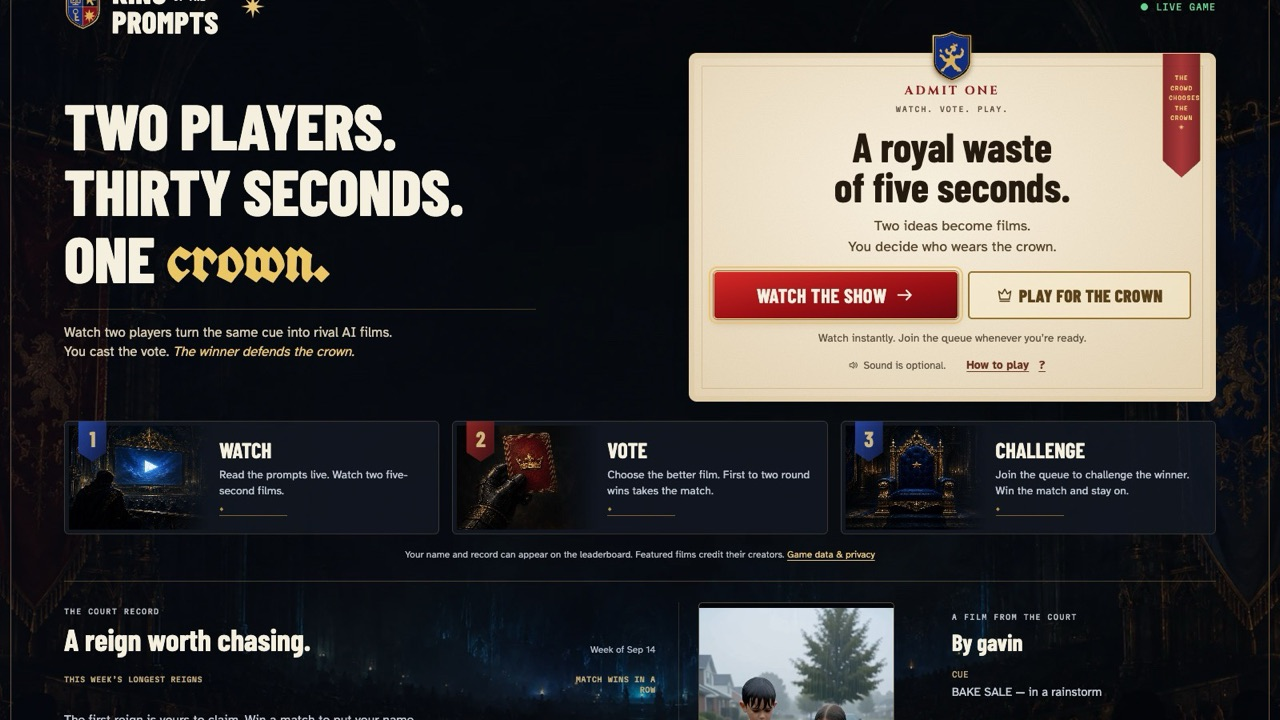
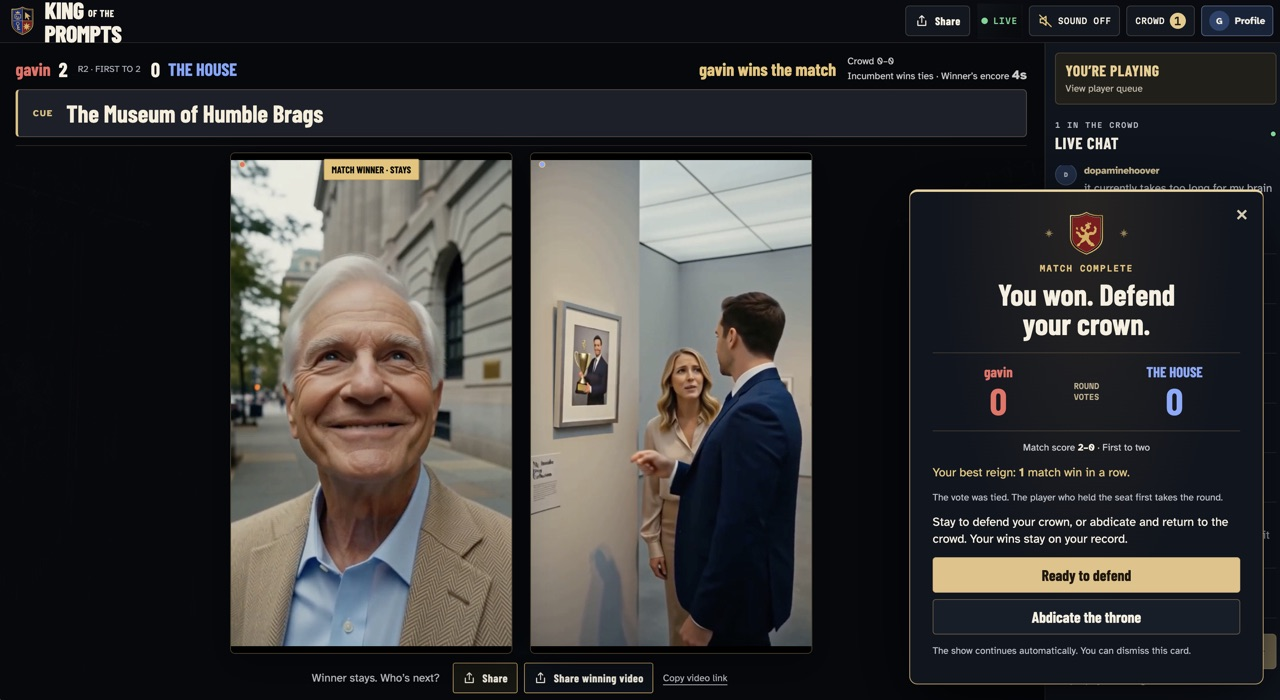
King of the Prompts: homepage section above Fig & Moss, in-game screenshot
Claude-Session: https://claude.ai/code/session_01EMiJ3NT6J8esxhbtXHG2E9

diff --git a/src/components/KingOfThePrompts.jsx b/src/components/KingOfThePrompts.jsx
@@ -1,0 +1,79 @@
+import { motion } from 'framer-motion';
+import './KingOfThePrompts.css';
+
+export default function KingOfThePrompts() {
+  return (
+    <section id="kingoftheprompts" className="kotp section">
+      <div className="kotp-container">
+        <motion.div
+          className="kotp-content"
+          initial={{ opacity: 0, x: -30 }}
+          whileInView={{ opacity: 1, x: 0 }}
+          viewport={{ once: true }}
+          transition={{ duration: 0.6 }}
+        >
+          <div className="kotp-logo-row">
+            <a href="https://kingoftheprompts.com" target="_blank" rel="noopener noreferrer" className="kotp-logo-link">
+              <img
+                src="/kotp-icon.png"
+                alt=""
+                className="kotp-logo"
+              />
+            </a>
+            <h2 className="kotp-name">
+              <a href="https://kingoftheprompts.com" target="_blank" rel="noopener noreferrer">King of the Prompts</a>
+            </h2>
+          </div>
+
+          <p className="kotp-tagline">Two players. Thirty seconds. One crown.</p>
+
+          <p className="kotp-description">
+            <strong>King of the Prompts</strong> is a live game show for the prompt era.
+            Two contestants get the same cue and thirty seconds to write a video prompt
+            while the crowd watches every keystroke land. AI turns both prompts into
+            five-second films on the spot. Then everybody votes.
+          </p>
+
+          <p className="kotp-description">
+            First to two takes the match, and the winner stays on to defend the crown
+            against whoever is next in the queue. When nobody is waiting, you play the
+            House, an AI opponent that has been studying the rounds the crowd liked.
+          </p>
+
+          <p className="kotp-backing">
+            It is live right now at <a href="https://kingoftheprompts.com" target="_blank" rel="noopener noreferrer">kingoftheprompts.com</a>,
+            with <strong>a 500-cue deck</strong>, a leaderboard of the longest reigns,
+            and fake commercials between matches. I designed and built it solo with AI
+            coding agents, spec to live domain in five days.
+          </p>
+        </motion.div>
+
+        <motion.div
+          className="kotp-visual"
+          initial={{ opacity: 0, x: 30 }}
+          whileInView={{ opacity: 1, x: 0 }}
+          viewport={{ once: true }}
+          transition={{ duration: 0.6, delay: 0.2 }}
+        >
+          <h3 className="kotp-visual-title">Match Complete</h3>
+          <a href="https://kingoftheprompts.com" target="_blank" rel="noopener noreferrer" className="kotp-screenshot-link">
+            <img
+              src="/kotp-screenshot.jpg"
+              alt="A finished King of the Prompts match on the cue The Museum of Humble Brags: two AI films side by side, gavin beat The House two rounds to none, and a card reads You won. Defend your crown."
+              className="kotp-screenshot"
+              loading="lazy"
+            />
+          </a>
+          <p className="kotp-caption">
+            The cue was "The Museum of Humble Brags." That's me on the left beating the
+            House two rounds to nothing, and the card asking whether I want to defend
+            the crown or abdicate the throne. Abdicate is a real button.
+          </p>
+          <a href="https://kingoftheprompts.com" target="_blank" rel="noopener noreferrer" className="btn btn-large kotp-btn">
+            Play King of the Prompts →
+          </a>
+        </motion.div>
+      </div>
+    </section>
+  );
+}

diff --git a/src/components/KingOfThePrompts.css b/src/components/KingOfThePrompts.css
@@ -1,0 +1,167 @@
+/* Mirrors FigMoss.css / Fishbowl.css so the project sections read as a matched set.
+   Only deliberate difference: no pixelated image-rendering, because the crest
+   is a flat vector rather than pixel art. */
+.kotp {
+  background: var(--color-bg);
+  padding: var(--space-2xl) 0;
+}
+
+.kotp-container {
+  max-width: 1400px;
+  margin: 0 auto;
+  padding: 0 var(--space-md);
+  display: grid;
+  grid-template-columns: 1fr 1fr;
+  gap: var(--space-2xl);
+  align-items: start;
+}
+
+/* Left Content */
+.kotp-content {
+  display: flex;
+  flex-direction: column;
+  gap: var(--space-md);
+}
+
+.kotp-logo-row {
+  display: flex;
+  align-items: center;
+  gap: var(--space-md);
+}
+
+.kotp-logo-link {
+  flex-shrink: 0;
+  display: block;
+}
+
+.kotp-logo {
+  display: block;
+  width: 96px;
+  height: auto;
+  border: var(--border-width) var(--border-style);
+  box-shadow: var(--shadow-md);
+}
+
+.kotp-name {
+  font-size: clamp(2.5rem, 4vw, 3.5rem);
+  margin: 0;
+  line-height: 1;
+}
+
+.kotp-name a {
+  color: var(--color-text);
+  font-weight: 400;
+}
+
+.kotp-name a:hover {
+  color: var(--color-primary);
+}
+
+.kotp-tagline {
+  font-size: 2rem;
+  font-family: var(--font-display);
+  font-style: italic;
+  color: var(--color-primary);
+  margin: 0;
+}
+
+.kotp-description {
+  font-size: 1.125rem;
+  line-height: 1.8;
+  color: var(--color-text);
+  margin: 0;
+}
+
+.kotp-description strong {
+  color: var(--color-primary);
+  font-weight: 600;
+}
+
+.kotp-backing {
+  font-size: 1.125rem;
+  line-height: 1.8;
+  color: var(--color-text);
+  margin: 0;
+}
+
+.kotp-backing strong {
+  color: var(--color-primary);
+  font-weight: 600;
+}
+
+.kotp-btn {
+  width: 100%;
+  text-align: center;
+}
+
+/* Right Visual */
+.kotp-visual {
+  display: flex;
+  flex-direction: column;
+  gap: var(--space-md);
+}
+
+.kotp-visual-title {
+  font-size: 1.5rem;
+  font-family: var(--font-body);
+  font-weight: 800;
+  color: var(--color-text);
+  margin: 0;
+}
+
+.kotp-screenshot-link {
+  display: block;
+  border: var(--border-width) var(--border-style);
+  box-shadow: var(--shadow-lg);
+  background: var(--color-bg-dark);
+  transition: all 0.2s ease;
+}
+
+.kotp-screenshot-link:hover {
+  transform: translate(4px, 4px);
+  box-shadow: 4px 4px 0 var(--color-border);
+}
+
+.kotp-screenshot {
+  display: block;
+  width: 100%;
+  height: auto;
+}
+
+.kotp-caption {
+  font-size: 0.9375rem;
+  line-height: 1.6;
+  color: var(--color-text-light);
+  font-style: italic;
+  margin: 0;
+}
+
+@media (max-width: 1024px) {
+  .kotp-container {
+    grid-template-columns: 1fr;
+    gap: var(--space-xl);
+  }
+
+  .kotp-btn {
+    align-self: stretch;
+    text-align: center;
+  }
+}
+
+@media (max-width: 768px) {
+  .kotp {
+    padding: var(--space-xl) 0;
+  }
+
+  .kotp-logo {
+    width: 72px;
+  }
+
+  .kotp-tagline {
+    font-size: 1.5rem;
+  }
+
+  .kotp-visual-title {
+    font-size: 1.25rem;
+  }
+}

diff --git a/src/components/WorkPage.jsx b/src/components/WorkPage.jsx
@@ -18,7 +18,7 @@ const caseStudies = [
     lesson:
       'The film is not the show. The show is a person trying to type a good idea in thirty seconds while everyone watches.',
     image: '/kotp-screenshot.jpg',
-    imageAlt: 'The King of the Prompts landing page: a royal Admit One ticket with Watch the Show and Play for the Crown buttons',
+    imageAlt: 'A finished King of the Prompts match: two AI films side by side, gavin beat The House two rounds to none, and a card reads You won. Defend your crown.',
     vitals: [
       { label: 'Role', value: 'Solo build' },
       { label: 'Stack', value: 'Next.js, WebSockets, fal video models' },

diff --git a/src/components/Home.jsx b/src/components/Home.jsx
@@ -2,6 +2,7 @@ import { Helmet } from 'react-helmet-async';
 import Hero from './Hero';
 import About from './About';
 import AIForHumans from './AIForHumans';
+import KingOfThePrompts from './KingOfThePrompts';
 import FigMoss from './FigMoss';
 import Fishbowl from './Fishbowl';
 import AndThen from './AndThen';
@@ -18,6 +19,7 @@ function Home() {
       <Hero />
       <About />
       <AIForHumans />
+      <KingOfThePrompts />
       <FigMoss />
       <Fishbowl />
       <AndThen />
